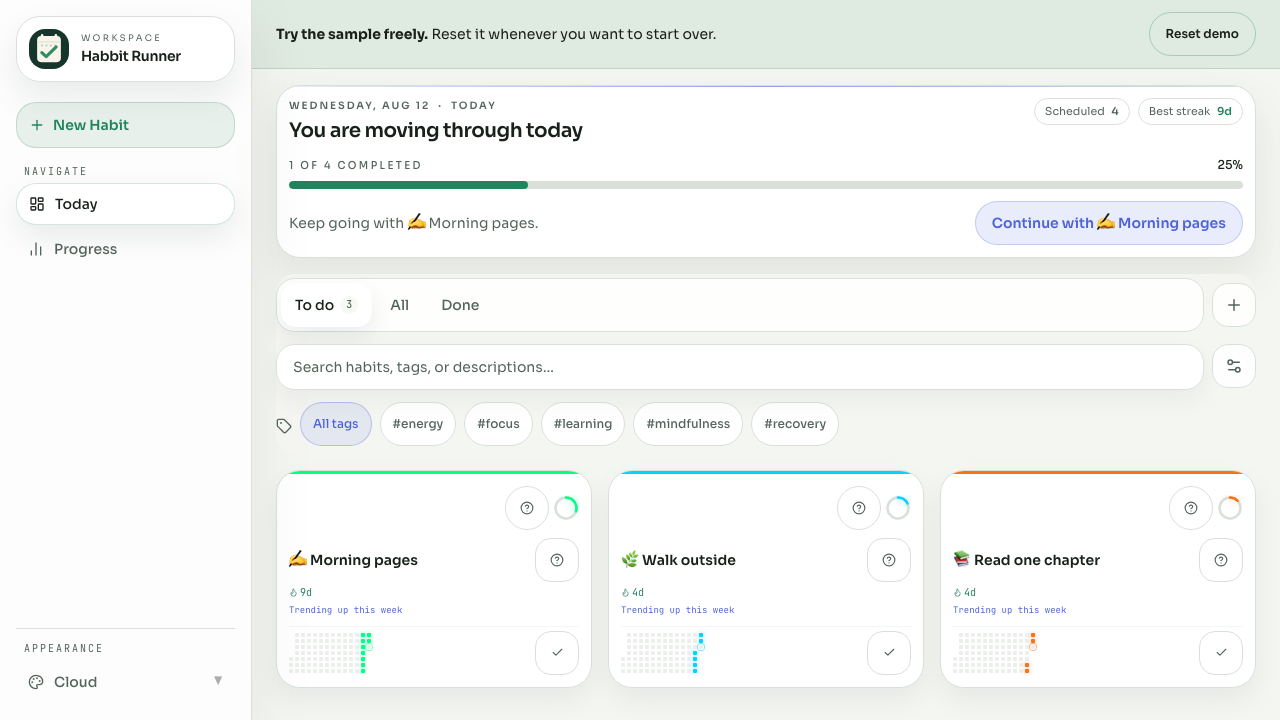
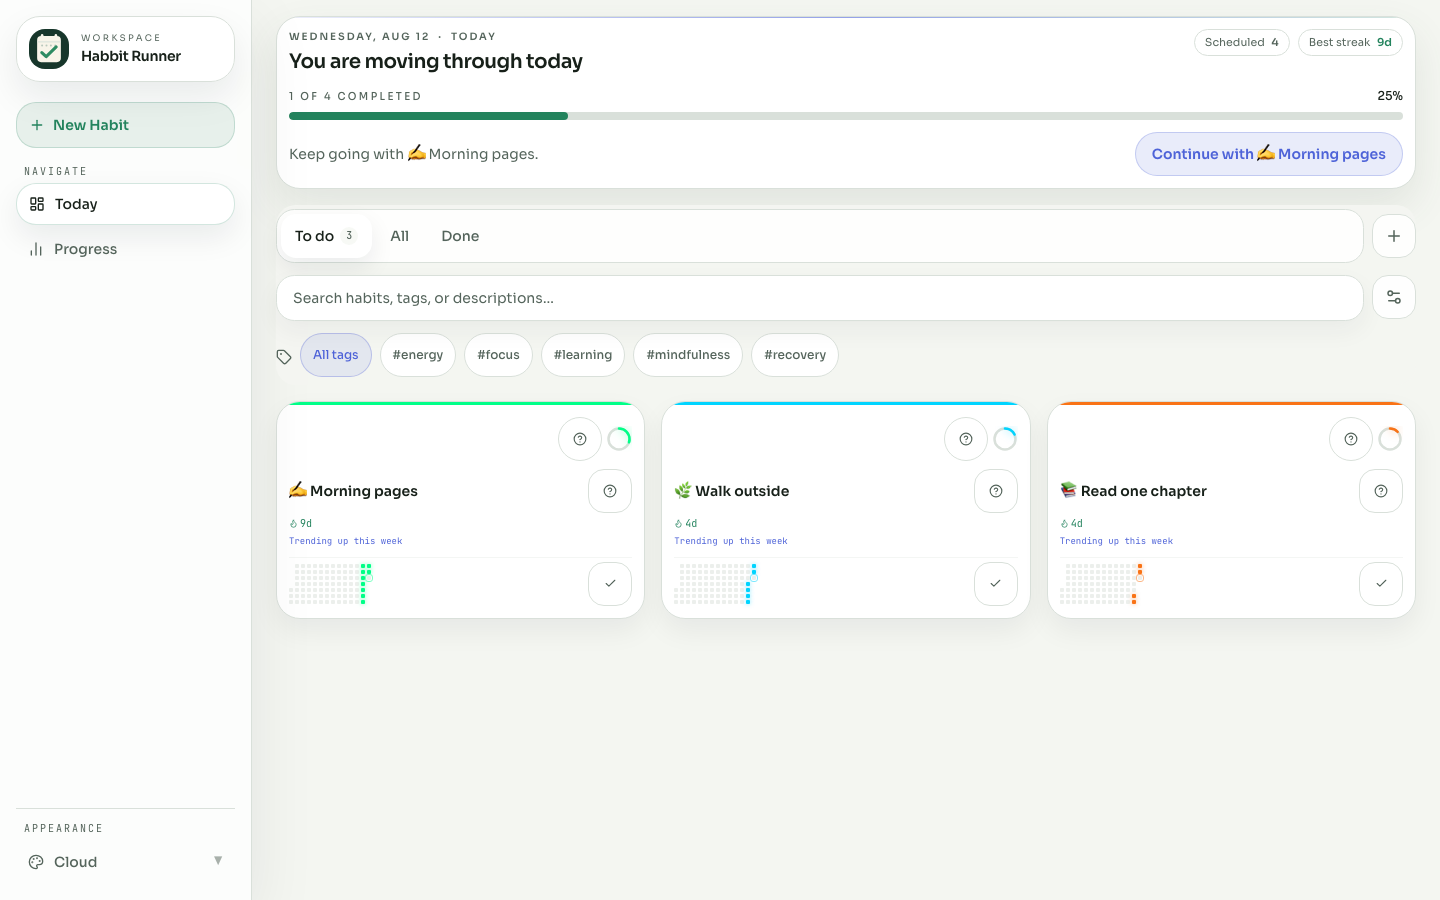
docs: Focus screenshots on private habits

diff --git a/apps/web/src/routes/showcase/+layout.svelte b/apps/web/src/routes/showcase/+layout.svelte
@@ -23,7 +23,7 @@
       applyTheme(nextTheme, false);
     }}
   >
-    <div class="border-b border-progress/20 bg-progress/10 px-4 py-3 text-sm text-foreground sm:px-6">
+    <div data-showcase-notice class="border-b border-progress/20 bg-progress/10 px-4 py-3 text-sm text-foreground sm:px-6">
       <div class="mx-auto flex max-w-6xl flex-wrap items-center justify-between gap-3">
         <p><strong>Try the sample freely.</strong> Reset it whenever you want to start over.</p>
         <button class="min-h-11 rounded-full border border-progress/30 px-4 py-2 text-xs font-semibold" type="button" onclick={() => showcaseStore.reset()}>Reset demo</button>

diff --git a/apps/web/vite.config.ts b/apps/web/vite.config.ts
@@ -147,7 +147,7 @@ export default defineConfig({
         screenshots: [
           {
             src: 'screenshots/desktop.png',
-            sizes: '1280x720',
+            sizes: '1440x900',
             type: 'image/png',
             label: 'Habbit Runner — Habit Tracker Dashboard'
           },

diff --git a/README.md b/README.md
@@ -14,10 +14,6 @@
   <a href="#quality-evidence">Quality</a>
 </p>
 
-<p align="center">
-  <img src="docs/assets/screenshots/github-social-preview.png" alt="Habbit Runner showcase dashboard with fictional habits" width="960" />
-</p>
-
 <a id="top"></a>
 
 ## Table of contents
@@ -83,23 +79,23 @@ data is server-backed and is never mixed with the showcase fixture.
 
 [↑ Back to top](#top)
 
-## 🖼 Product screens <a id="product-screens"></a>
+## 🖼 Private product screens <a id="product-screens"></a>
 
-All captures below use the anonymous showcase fixture, never a visitor account.
-They show the product screens for habits, habit detail, progress, and compact
-mobile use.
+These are the private habit-management screens, rendered with a sealed fixture
+instead of a visitor account. The fixture reuses the same dashboard, habit
+detail, progress, and compact-webview components as the signed-in application.
 
-| Today | Habit detail |
+| Desktop: habits | Desktop: habit detail |
 | --- | --- |
-| ![Showcase dashboard with four fictional habits](apps/web/static/screenshots/desktop.png) | ![Habit detail for Morning pages](apps/web/static/screenshots/habit-detail.png) |
+| ![Private habits dashboard with fictional data](apps/web/static/screenshots/desktop.png) | ![Private habit detail with fictional data](apps/web/static/screenshots/habit-detail.png) |
 
-| Progress | Mobile |
+| Desktop: progress | Compact webview |
 | --- | --- |
-| ![Progress screen with fictional habit data](apps/web/static/screenshots/progress.png) | ![Compact showcase dashboard with fictional habits](apps/web/static/screenshots/mobile.png) |
+| ![Private progress screen with fictional data](apps/web/static/screenshots/progress.png) | ![Private habits dashboard in a compact webview](apps/web/static/screenshots/mobile.png) |
 
-`docs/assets/screenshots/github-social-preview.png` is the prepared 1280×640
-repository social-preview image. Upload that file in GitHub repository settings
-when publishing the repository.
+The separate [GitHub social-preview image](docs/assets/screenshots/github-social-preview.png)
+also shows the private habit dashboard with fixture data. Upload it in GitHub
+repository settings when publishing the repository.
 
 [↑ Back to top](#top)
 

diff --git a/apps/web/static/screenshots/README.md b/apps/web/static/screenshots/README.md
@@ -9,6 +9,6 @@ npm run preview -- --host 127.0.0.1 --port 4173
 SCREENSHOT_BASE_URL=http://127.0.0.1:4173 node scripts/capture-showcase-screenshots.mjs
 ```
 
-`desktop.png` and `mobile.png` are declared in the web-app manifest. The
+`desktop.png` (1440×900) and `mobile.png` (390×844) are declared in the web-app manifest. The
 remaining images document the habit detail and progress screens for README and
 repository social previews.
